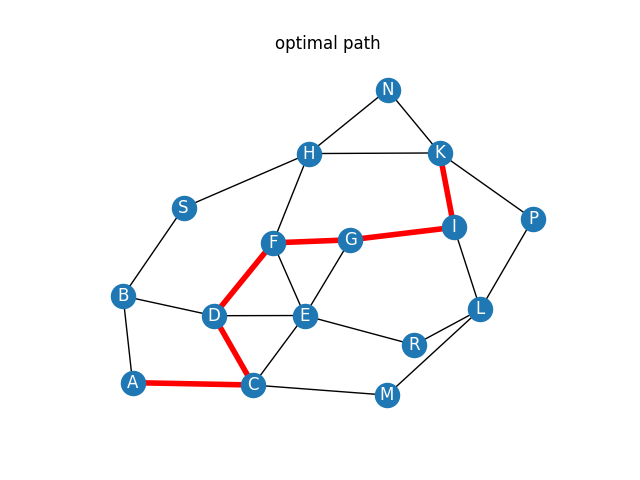
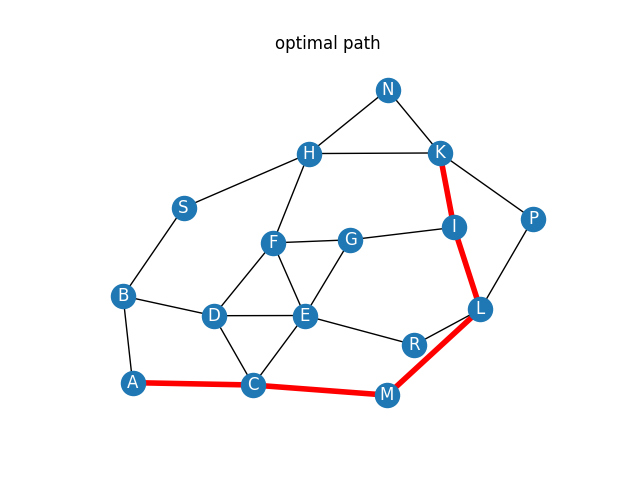
commit

diff --git a/simulate.py b/simulate.py
@@ -23,21 +23,22 @@ def simulate(graph, paths, message, attacked_nodes=None):
 
     for i in range(len(paths)):
         # 签名并传递消息
+        current_message = message
         is_valid = True
         for node in paths[i][:-1]:
             if node in attacked_nodes:
-                message = b"error message"
-                signature = sign_message(rsa.generate_private_key(public_exponent=65537, key_size=2048), message)
+                current_message = b"error message"
+                signature = sign_message(rsa.generate_private_key(public_exponent=65537, key_size=2048), current_message)
             else:
-                signature = sign_message(keys[node], message)
+                signature = sign_message(keys[node], current_message)
 
             # 下一个节点验证签名
-            if not verify_signature(public_keys[node], message, signature):
+            if not verify_signature(public_keys[node], current_message, signature):
                 is_valid = False
                 break
 
         if is_valid:
-            print("received message： ", message)
+            print("received message： ", current_message)
             valid_path = i
             valid_flag = 1
             break

diff --git a/main.py b/main.py
@@ -25,11 +25,11 @@ def main():
     print("Simulate message transfer process")
     # 模拟传递过程
     # 如果需要添加攻击节点，在attack_nodes中添加节点名称即可
-    flag, path = simulate(graph, paths, b"Important message", ['H'])
+    flag, path = simulate(graph, paths, b"Important message", ['H', 'G', 'L'])
 
     # 打印结果
     if flag == 0:
-        print("No valid path found")
+        print("ERROR: No valid path found")
         show_graph(graph, title="No valid path found")
     else:
         print("optimal path: ", path)

diff --git a/Readme.md b/Readme.md
@@ -1,34 +1,44 @@
-# 结合PoS和节点声誉的可信任传输路径选择
+# Trust Path Selection Combining PoS and Node Reputation
 
-这个项目模拟了区块链中的节点声誉和 PoS 机制，结合这两个机制来选择从节点 A 到节点 B 最优的传输路径，
-并通过签名算法保证传输路径的安全性。在这个项目中，我们假设有 19 个节点，节点的各项属性和边记录在 `property.py` 文件中。
-通过 PoS 对节点进行初次筛选，然后选择总体声誉值最高的路径作为最优传输路径。在传输数据的过程中对数据进行签名，以保证数据的安全性。
-若在验证签名过程中出现错误，则说明数据被篡改，因此依据总体声誉值依次从高到低选择其余路径进行传输。
+This project simulates node reputation and PoS (Proof of Stake) mechanisms within a blockchain, combining these 
+mechanisms to select the optimal transmission path from node A to node B. The security of the transmission path is 
+ensured through signature algorithms. In this project, we assume there are 19 nodes, with their properties and edges 
+recorded in the `property.py` file. Nodes are initially screened using PoS, and then the path with the highest overall 
+reputation value is selected as the optimal transmission path. During data transmission, data is signed to ensure its 
+security. If an error is detected during signature verification, it indicates that the data has been tampered with, 
+and other paths are chosen for transmission based on their overall reputation values in descending order.
 
-## 需求
-本项目在 Python 3.11.9 环境下运行，需要以下库的支持：
+## Requirements
+
+This project runs in a Python 3.11.9 environment and requires the following libraries:
 ```
 matplotlib==3.9.0
 networkx==3.3
 cryptography==42.0.8
 ```
-通过运行以下命令安装所需库：
+Install the required libraries using the following command:
 ```
 pip install -r requirements.txt
 ```
-## 使用
-运行 `main.py` 文件，即可开始模拟信息传递过程。其中，`createGraph`函数通过读取`property.py` 文件的数据创建初始图，
-并通过`PoS_verify`函数对初始图进行权益证明，将代币数×持有时间小于`threshold`的节点删除。
+## Usage
+Run the `main.py` file to start simulating the information transmission process. The `createGraph` function creates the 
+initial graph by reading data from the `property.py` file and performs PoS verification via the `PoS_verify` function, 
+removing nodes with coin × coin holding time less than the `threshold`.
 
-`find_best_path`函数设定信息发出节点和信息接收节点，通过计算所有可行途径的总体声誉值，按总体声誉值高低对所有可行路径从高到低排序。
+The `find_best_path` function sets the sender and receiver nodes, calculates the overall reputation values of all feasible 
+paths, and sorts these paths from highest to lowest reputation.
 
-最后 `simulate` 函数模拟信息传递过程，要传递的信息在参数`message`中进行设定，恶意节点通过`attacked_nodes`参数进行设置，默认不存在恶意节点。
-`simulate` 函数传递过程中每个节点都对数据进行签名，签名算法为`RSA`，若签名验证失败，则说明数据被篡改，选择其他路径进行传输。
+Finally, the `simulate` function simulates the information transmission process. The message to be transmitted is set in 
+the `message` parameter, and malicious nodes can be set through the `attacked_nodes` parameter (default is no malicious 
+nodes). During transmission, each node signs the data using the `RSA` algorithm. If signature verification fails, 
+indicates that the data has been tampered with, and an alternative path is chosen for transmission.
 
-恶意节点的行为被设定为篡改数据，所有途径恶意节点的信息都被篡改为 `error message`。
+Malicious nodes are programmed to tamper with data, changing it to `error message`.
 
-## 结果
-直接运行 `main.py` 文件，可以得到如下结果：
+
+## Results
+
+By directly running the `main.py` file, you can get the following results:
 ```
 ==========================================================================
 Create graph
@@ -50,22 +60,38 @@ The top eight paths are:
 ['A', 'B', 'D', 'F', 'H', 'K']           total reputation:    0.72      
 ==========================================================================
 Simulate message transfer process
-message decrypt:  b'Important message'
+received message：  b'Important message'
 optimal path:  ['A', 'C', 'D', 'F', 'G', 'I', 'K']
 ==========================================================================
 ```
-通过`find_sorted_paths`函数修改信息发送方和接收方，通过`simulate`函数修改被攻击节点，在现有文件中，选择节点`A`作为信息发送方，
-节点`K`作为信息接收方，其中`S`和`Q`节点被攻击，为恶意节点。直接生成的 graph 如下图所示。
+Use the `find_sorted_paths` function to modify the sender and receiver nodes and the `simulate` function to modify the 
+attacked nodes. In the current file, node `A` is chosen as the sender and node `K` as the receiver, with nodes `S` and `Q` 
+being attacked and acting as malicious nodes. The initially generated graph is shown below.
+
 <div align=center>
 <img  src="figure/Initial graph.png" width="50%">
 </div>
 
-经过 PoS 机制筛选后，删除了节点 `O`, `Q`, `J`，剩余节点如下图所示。
+After PoS verification, nodes `O`, `Q`, and `J` are removed, with the remaining nodes shown below.
+
 <div align=center>
 <img  src="figure/PoS verified.png" width="50%">
 </div>
 
-最终筛选出的最优路径为 `['A', 'C', 'D', 'F', 'G', 'I', 'K']`，如下图所示。
+The final selected optimal path is `['A', 'C', 'D', 'F', 'G', 'I', 'K']`, as shown below.
+
 <div align=center>
 <img  src="figure/optimal path.png" width="50%">
 </div>
+
+## Conclusion
+
+In practice, this project represents a preliminary attempt to integrate multiple mechanisms, with each module having 
+some issues. In actual use, more in-depth methods can replace the modules in this project. For example, a Byzantine 
+fault-tolerant PoS mechanism can replace the simple asset proof method used in this project. More factors can be 
+considered in the reputation calculation phase to comprehensively evaluate node reputation. Additionally, to ensure 
+that transmitted information is only visible to the sender and receiver nodes and not to the relay nodes, symmetric 
+encryption algorithms like "AES" can be used before sending the information. The encryption and decryption keys can be 
+agreed upon by the sender and receiver nodes, further ensuring the confidentiality and security of information 
+transmission.
+
